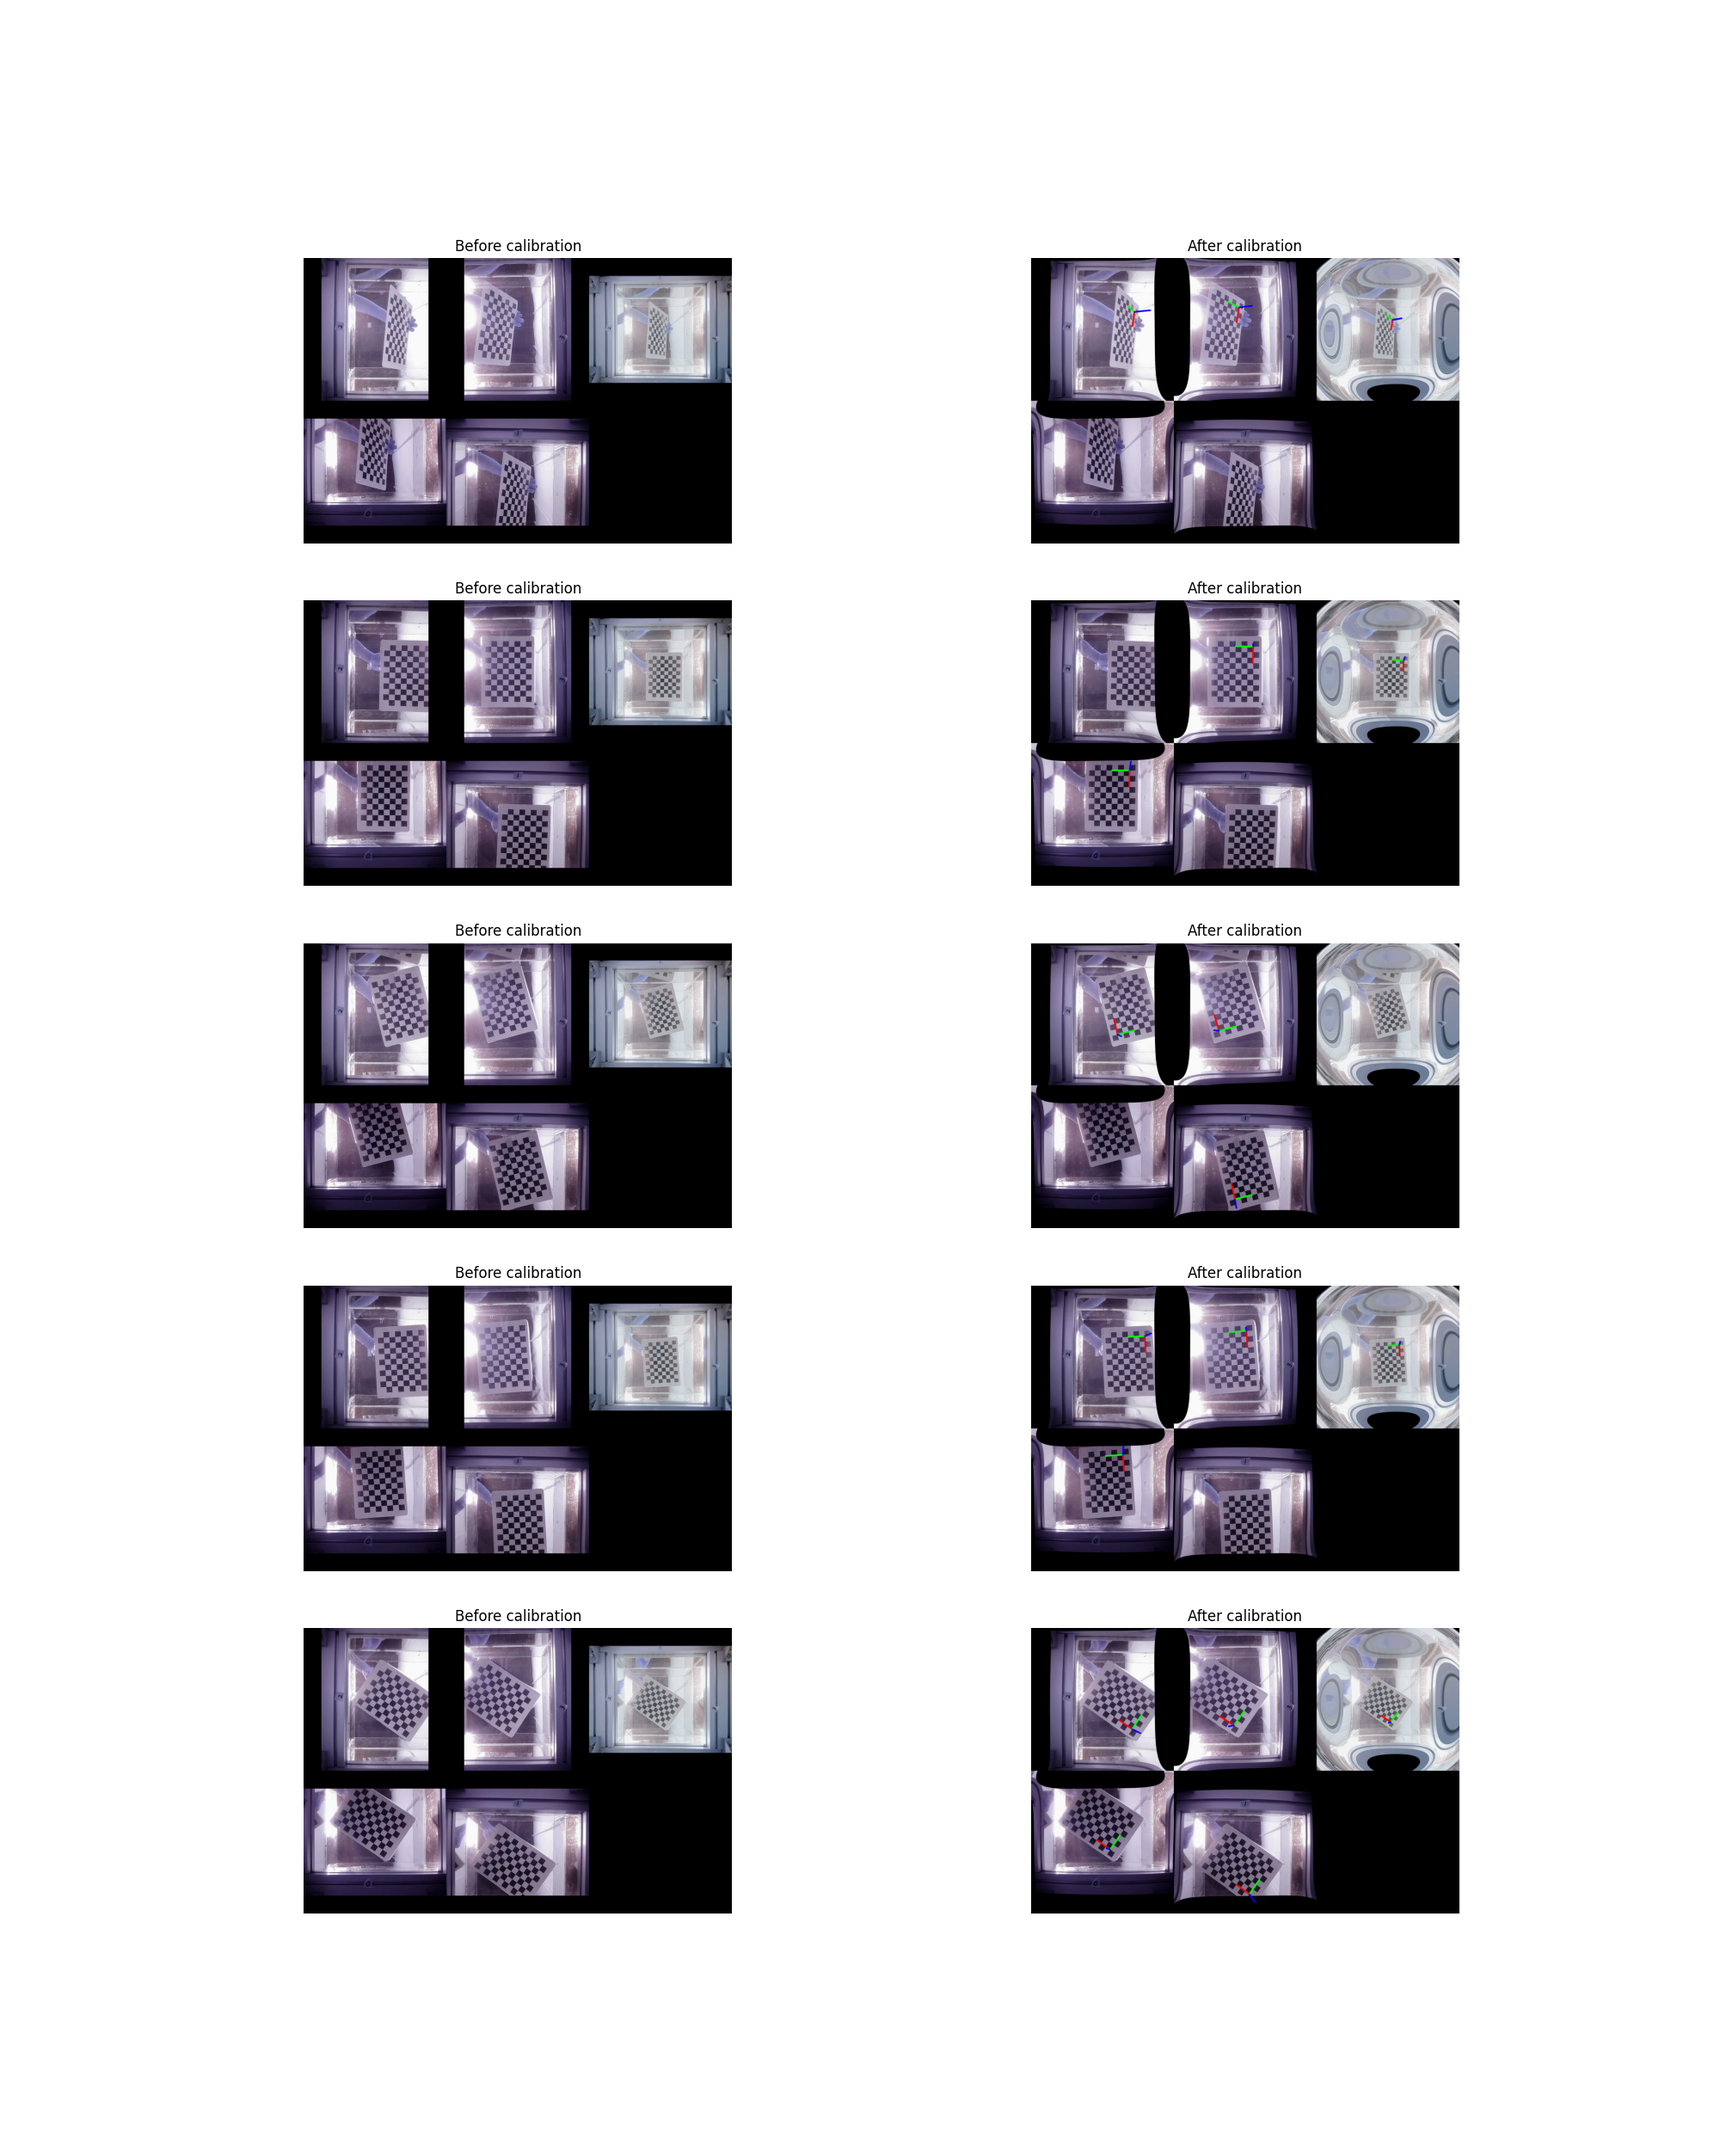
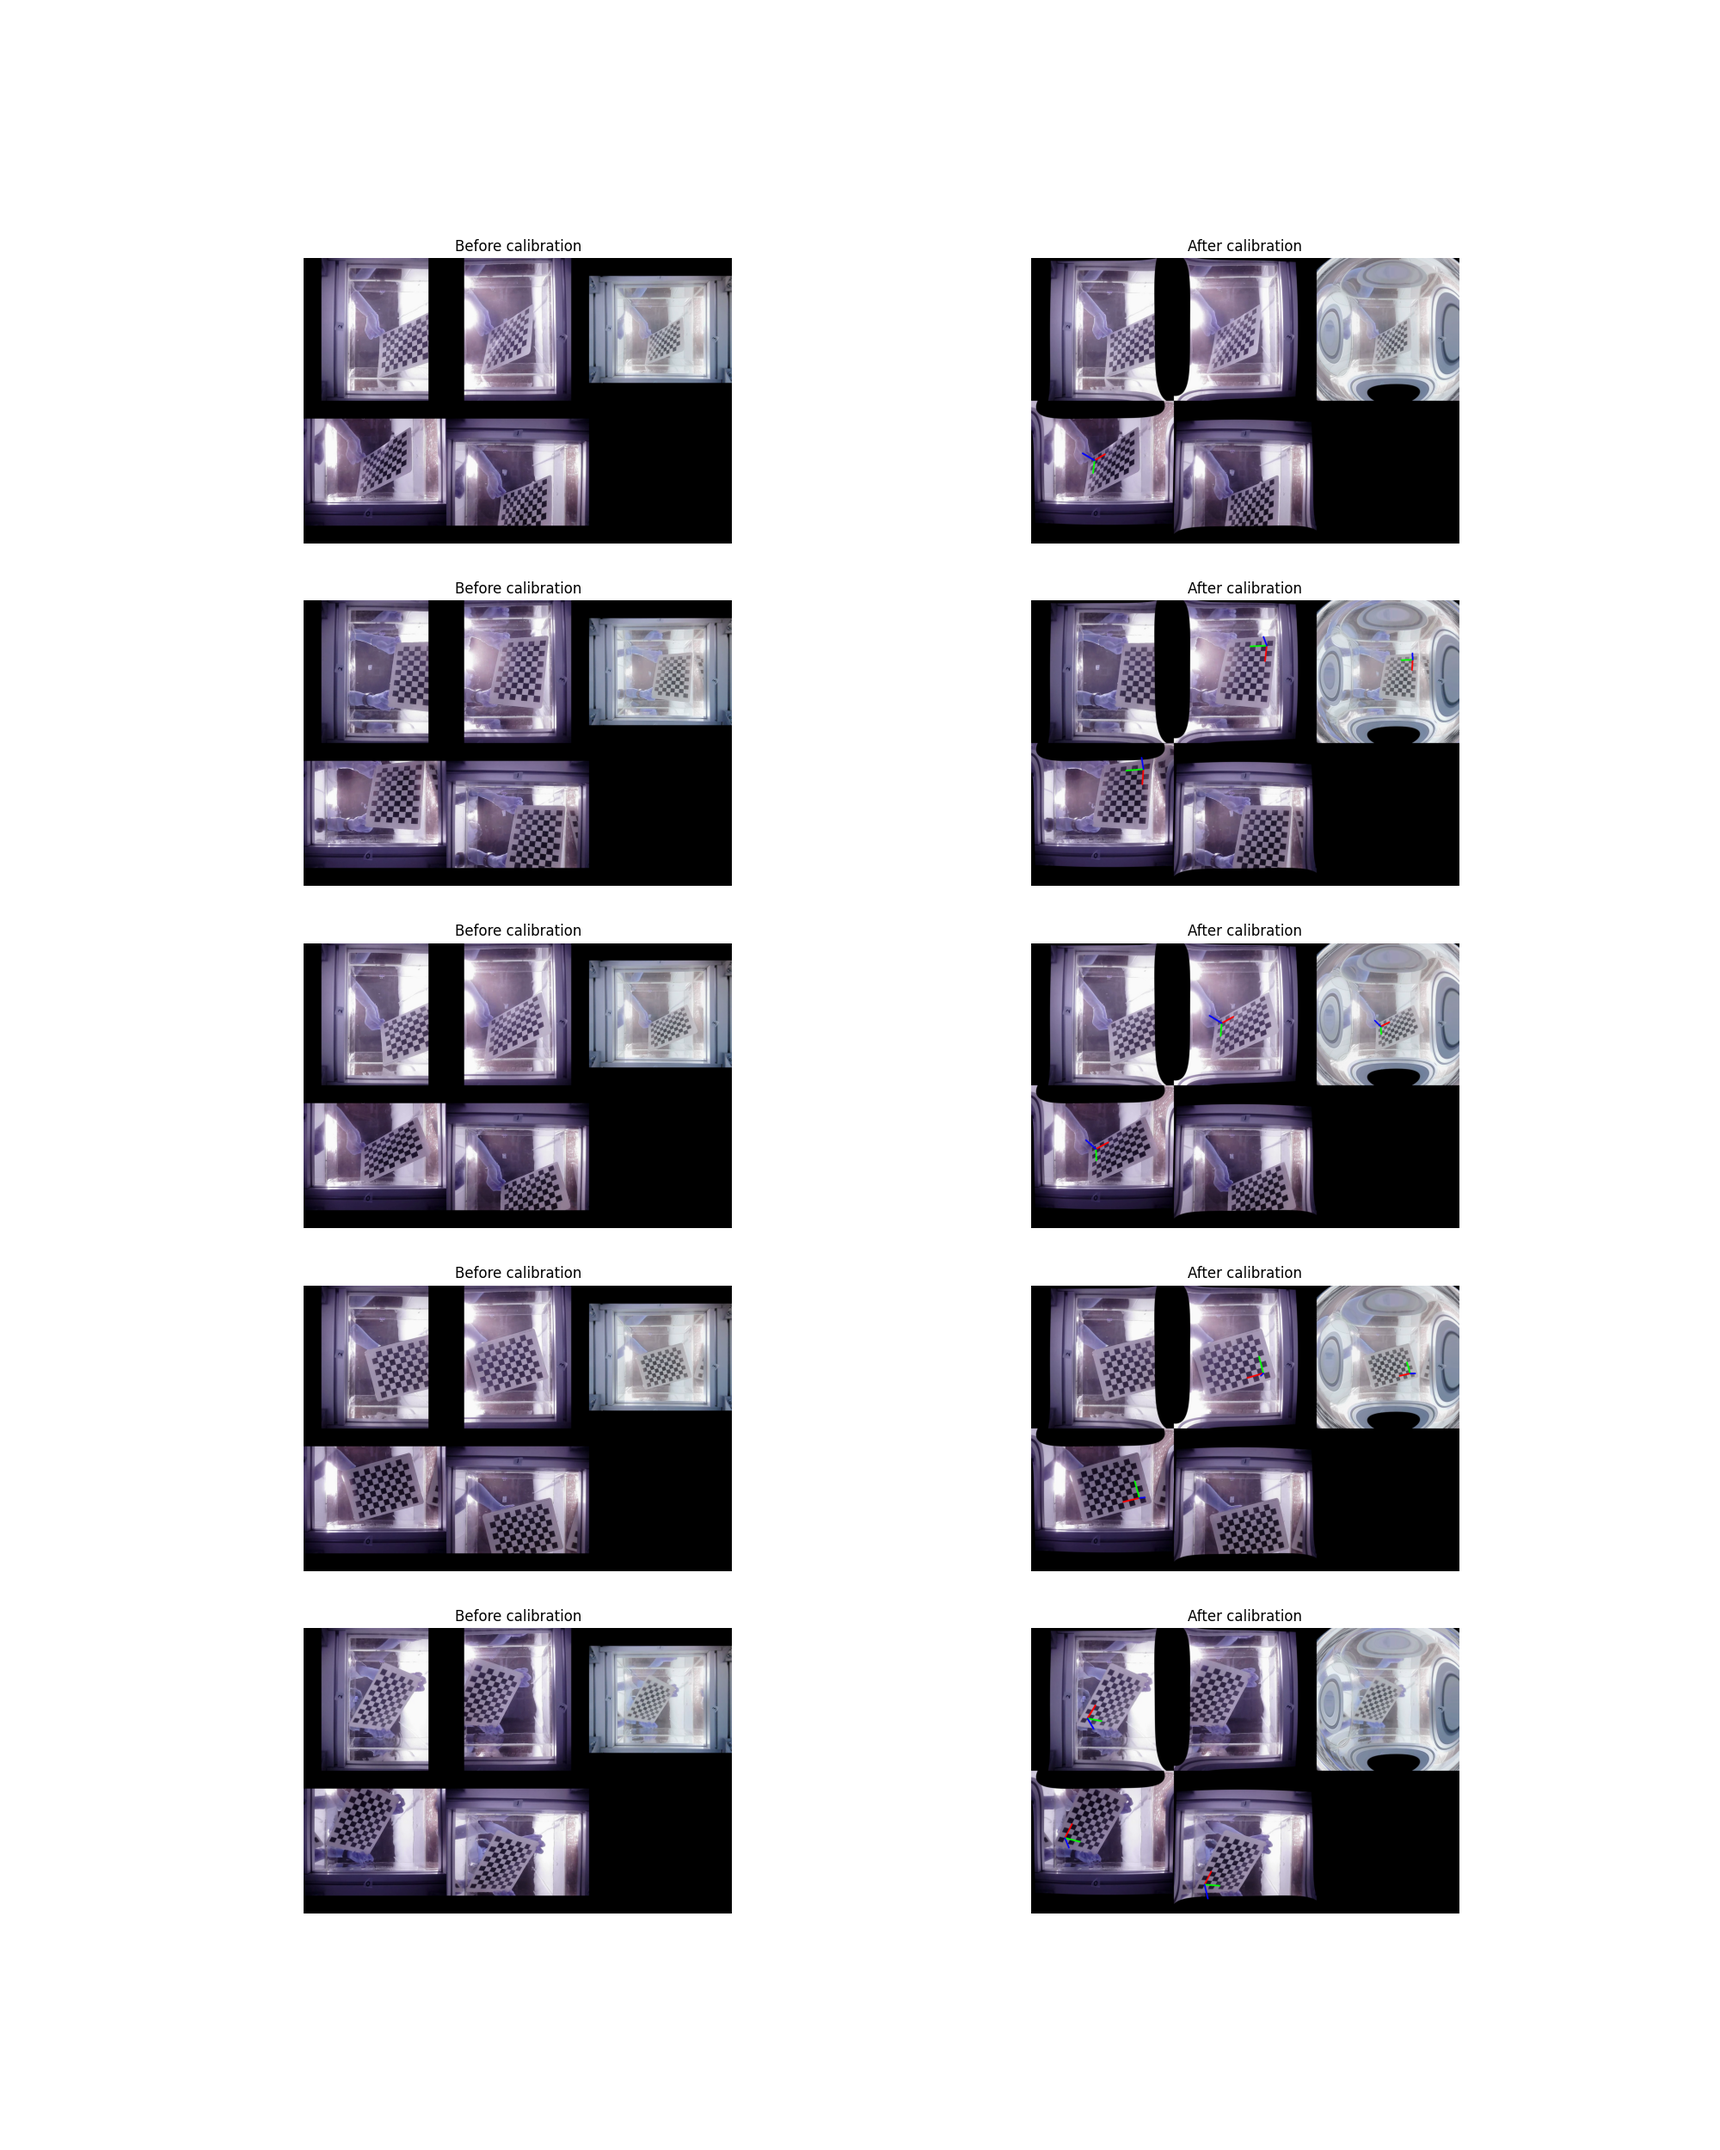
Bug fix function call

diff --git a/Callibration/multi_camera_int.py b/Callibration/multi_camera_int.py
@@ -26,7 +26,13 @@ objp[:,:2] = np.mgrid[0:number_of_internal_corners_x,0:number_of_internal_corner
 objp = objp * SQUARE_SIZE
 
         
-def intrinsic_calibration(cameras):
+def intrinsic_calibration():
+    if os.path.exists('results/rets.json') and os.path.exists('results/object_points.json') and os.path.exists('results/image_points.json') and os.path.exists('results/shape.json'):
+        print('Image points already exist')
+    else:
+        print('Image points not exist, start to get image points')
+        get_points()
+    
     with open('results/rets.json', 'r') as f:
         rets = np.array(json.load(f))
     with open('results/object_points.json', 'r') as f:
@@ -76,18 +82,14 @@ def intrinsic_calibration(cameras):
 
     
 def main():
-    if os.path.exists('results/rets.json') and os.path.exists('results/object_points.json') and os.path.exists('results/image_points.json') and os.path.exists('results/shape.json'):
-        print('Image points already exist')
-        pass
-    else:
-        get_points()
             
     results = os.listdir('results')
     if 'intrinsic_cam0.json' in results and 'intrinsic_cam1.json' in results and 'intrinsic_cam2.json' in results and 'intrinsic_cam3.json' in results and 'intrinsic_wide.json' in results:
         print('Intrinsic calibration already done')
         pass
     else:
-        intrinsic_calibration(cameras)
+        print('Intrinsic calibration not done, start to do intrinsic calibration')
+        intrinsic_calibration()
     
 if __name__ == '__main__':
     main()

diff --git a/Callibration/visualize_int.py b/Callibration/visualize_int.py
@@ -1,13 +1,12 @@
 import cv2
 import numpy as np
-import glob
 import json
 import os
-from scipy.spatial.transform import Rotation as R
 import matplotlib.pyplot as plt
 import sys
 import time
 import random
+from multi_camera_int import intrinsic_calibration
 random.seed(time.time())
 
 sys.path.append(os.path.dirname(os.path.abspath('.')))
@@ -95,10 +94,10 @@ def arrow_projection():
 def main():
     results = os.listdir('results')
     if 'intrinsic_cam0.json' in results and 'intrinsic_cam1.json' in results and 'intrinsic_cam2.json' in results and 'intrinsic_cam3.json' in results and 'intrinsic_wide.json' in results:
-        pass
+        print('Intrinsic calibration already done')
     else:
-        print('Please run intrinsic_calibration.py first')
-        return
+        intrinsic_calibration()
+
     arrow_projection()
     
 if __name__ == '__main__':
